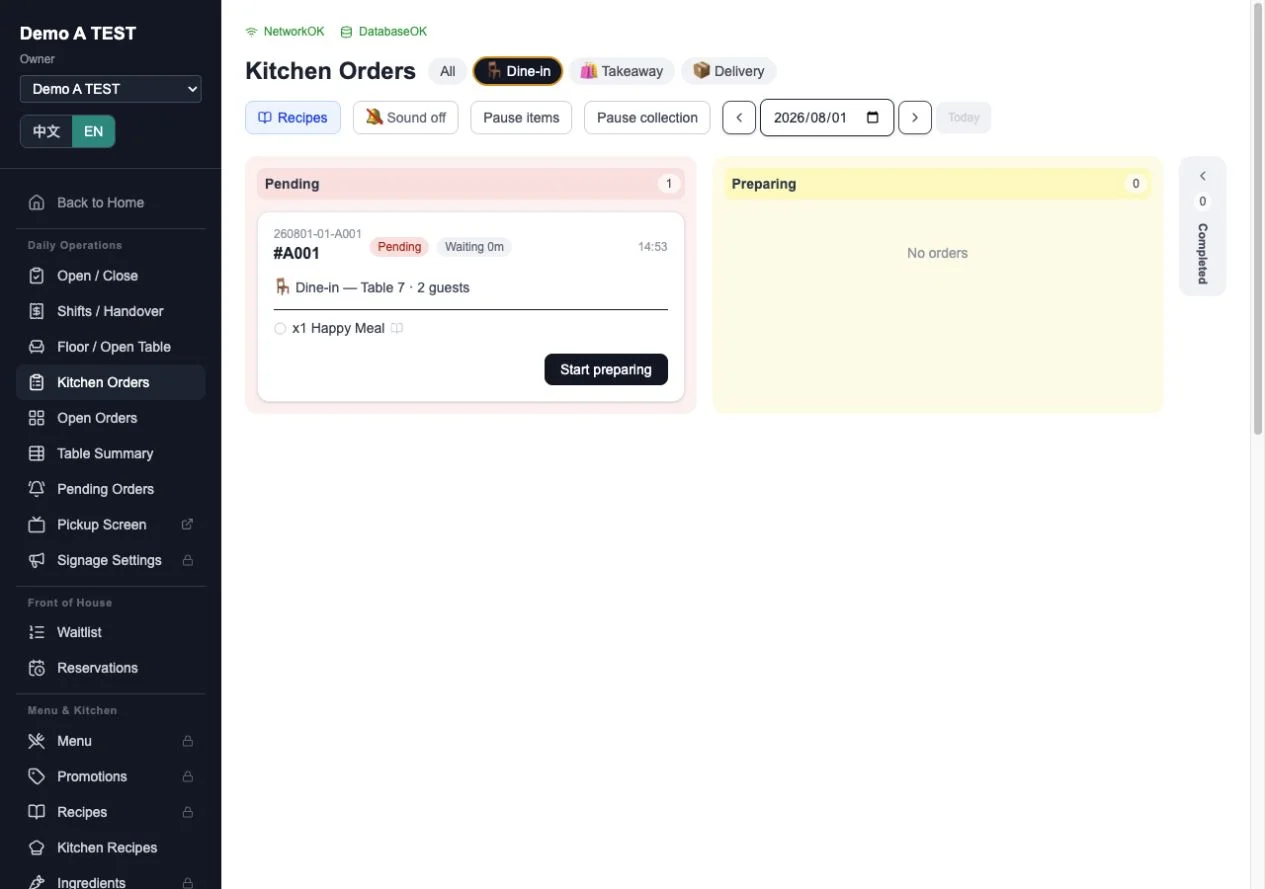
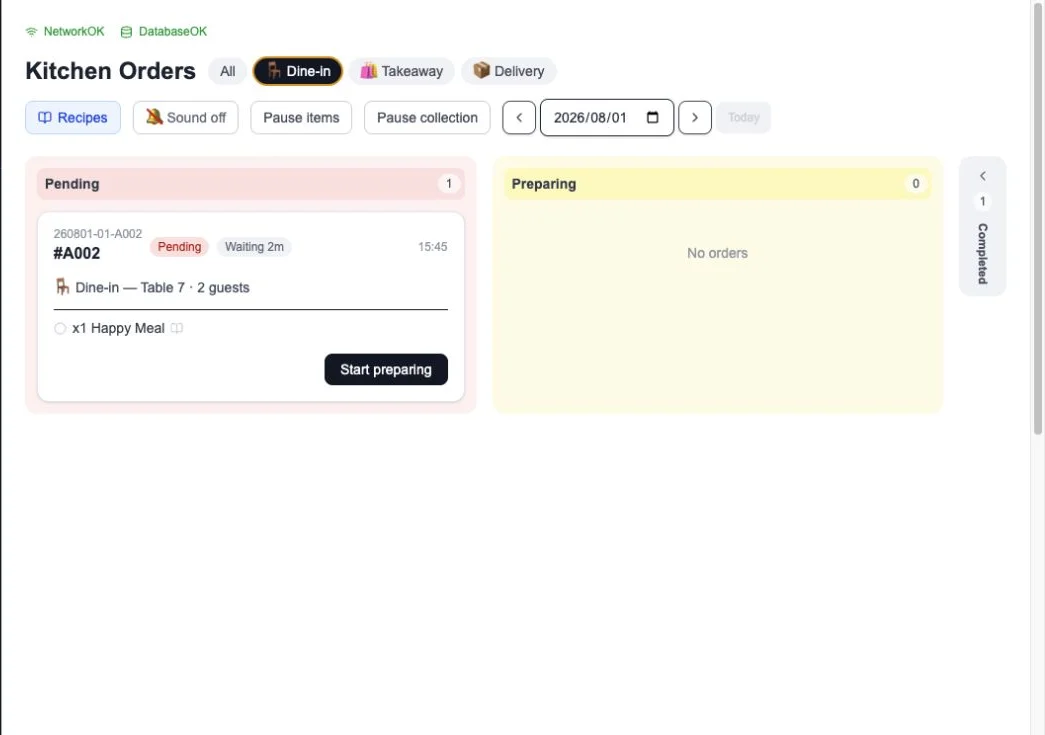
fix: align English POS demo screenshots

Changed region(s): [[0.0, 0.0, 1.0, 1.0], [0.3062, 0.4789, 0.4287, 0.5388], [0.6431, 0.3293, 0.7349, 0.3592]]

diff --git a/docs/pos-demo-screenshot-register.md b/docs/pos-demo-screenshot-register.md
@@ -5,17 +5,17 @@ Capture date: 2026-08-01 (UK time)
 Journey: one newly created dine-in order in the fictional Demo restaurant
 `Demo A TEST`, table 7, party of 2. Table 7 was visibly `Not open` before the
 session and had no unpaid order; table 8 was deliberately avoided because it
-already had an order. The Demo-only order was `#26080101A001` (admin code
-`260801-01-A001`, short code `#A001`) and contained one `Happy Meal` at £5.00.
+already had an order. The Demo-only order was `#26080101A002` (admin code
+`260801-01-A002`, short code `#A002`) and contained one `Happy Meal` at £5.00.
 It moved from pending to preparing, was completed, paid with Demo cash for
 £5.00, and table 7 was confirmed `Not open` afterwards.
 
 | Asset | Source environment | Demo state | Language | Viewport and asset | File size | Masking result | Fictional data checked | Private data checked | Approved |
 |---|---|---|---|---|---:|---|---|---|---|
-| `order-entry.webp` | Demo account / non-production | Staff dine-in cart, table 7, `Happy Meal` ×1, £5.00 total | EN | 1280×900 viewport; intentional product-area clip 1280×520 | 27,974 bytes | None; clean product-area capture | Yes | Yes | Yes |
-| `kitchen-order.webp` | Demo account / non-production | Dine-in filter, new `#A001` order pending only | EN | 1280×900 viewport; asset 1265×889 | 34,746 bytes | None required | Yes | Yes | Yes |
-| `floor-progress.webp` | Demo account / non-production | Open Orders, table 7 preparing only; takeaway count 0 | EN | 1280×900 viewport; asset 1265×889 | 34,188 bytes | None required | Yes | Yes | Yes |
-| `checkout-report.webp` | Demo account / non-production | Table 7 filter, checkout before Demo cash payment; cash/card choices visible | EN | 1280×900 viewport; asset 1280×900 | 40,808 bytes | None required | Yes | Yes | Yes |
+| `order-entry.webp` | Demo account / non-production | Staff dine-in cart, table 7, `Happy Meal` ×1, £5.00 total; table 7 filter shows only new `#A002` unpaid row | EN | 1280×900 viewport; asset 1280×900 | 40,538 bytes | None required | Yes | Yes | Yes |
+| `kitchen-order.webp` | Demo account / non-production | Dine-in filter, new `#A002` order pending only | EN | 1280×900 viewport; source 1265×889; product-area crop 1045×735 | 17,934 bytes | Sidebar-only crop; product UI unchanged | Yes | Yes | Yes |
+| `floor-progress.webp` | Demo account / non-production | Open Orders, table 7 preparing only; takeaway count 0 | EN | 1280×900 viewport; source 1265×889; product-area crop 1045×735 | 16,828 bytes | Sidebar-only crop; product UI unchanged | Yes | Yes | Yes |
+| `checkout-report.webp` | Demo account / non-production | Table 7 filter, checkout before Demo cash payment; cash/card choices visible | EN | 1280×900 viewport; asset 1280×900 | 40,918 bytes | None required | Yes | Yes | Yes |
 
 4 source stages = 4 English assets, zero gap.
 
@@ -30,19 +30,20 @@ It moved from pending to preparing, was completed, paid with Demo cash for
 
 ## Capture decisions
 
-- `order-entry.webp` uses a clean 1280×520 product-area clip from the 1280×900
-  viewport so the pre-existing staff unpaid section is outside the capture. The
-  product UI was not altered, covered, blurred, replaced or fabricated.
+- `order-entry.webp` uses the full 1280×900 product capture. The staff unpaid
+  list is filtered to table 7 and its only visible row is the new Demo order
+  `#A002`; no pre-existing order row is shown.
 - Kitchen was filtered to **Dine-in** and captured while the new order was the
-  only pending dine-in card.
+  only pending dine-in card. Its 1045×735 crop removes the complete navigation
+  sidebar from the real full capture; the product area is otherwise unchanged.
 - Open Orders showed only table 7 preparing; the takeaway section showed
-  `0 orders` and no takeaway row or address.
+  `0 orders` and no takeaway row or address. Its 1045×735 crop applies the same
+  complete-sidebar removal without altering the product area.
 - Checkout remained filtered to table 7. The only visible order row was the new
   Demo order; no pre-existing delivery row or address was exposed. Card ref
-  `434` was generated inside the Demo checkout and is not a payment credential.
-- The active product language was English throughout. The admin sidebar's
-  language switch still shows `中文` as the name of the alternative language;
-  restaurant, menu, order and status content remain English.
+  `435` was generated inside the Demo checkout and is not a payment credential.
+- The active product language was English throughout. Every visible restaurant,
+  menu, order, filter and status label in the four final assets is English.
 - No customer or staff name, email, phone number, postal address, account ID,
   URL token, API key, payment token, real card data or production analytics is
   visible.
